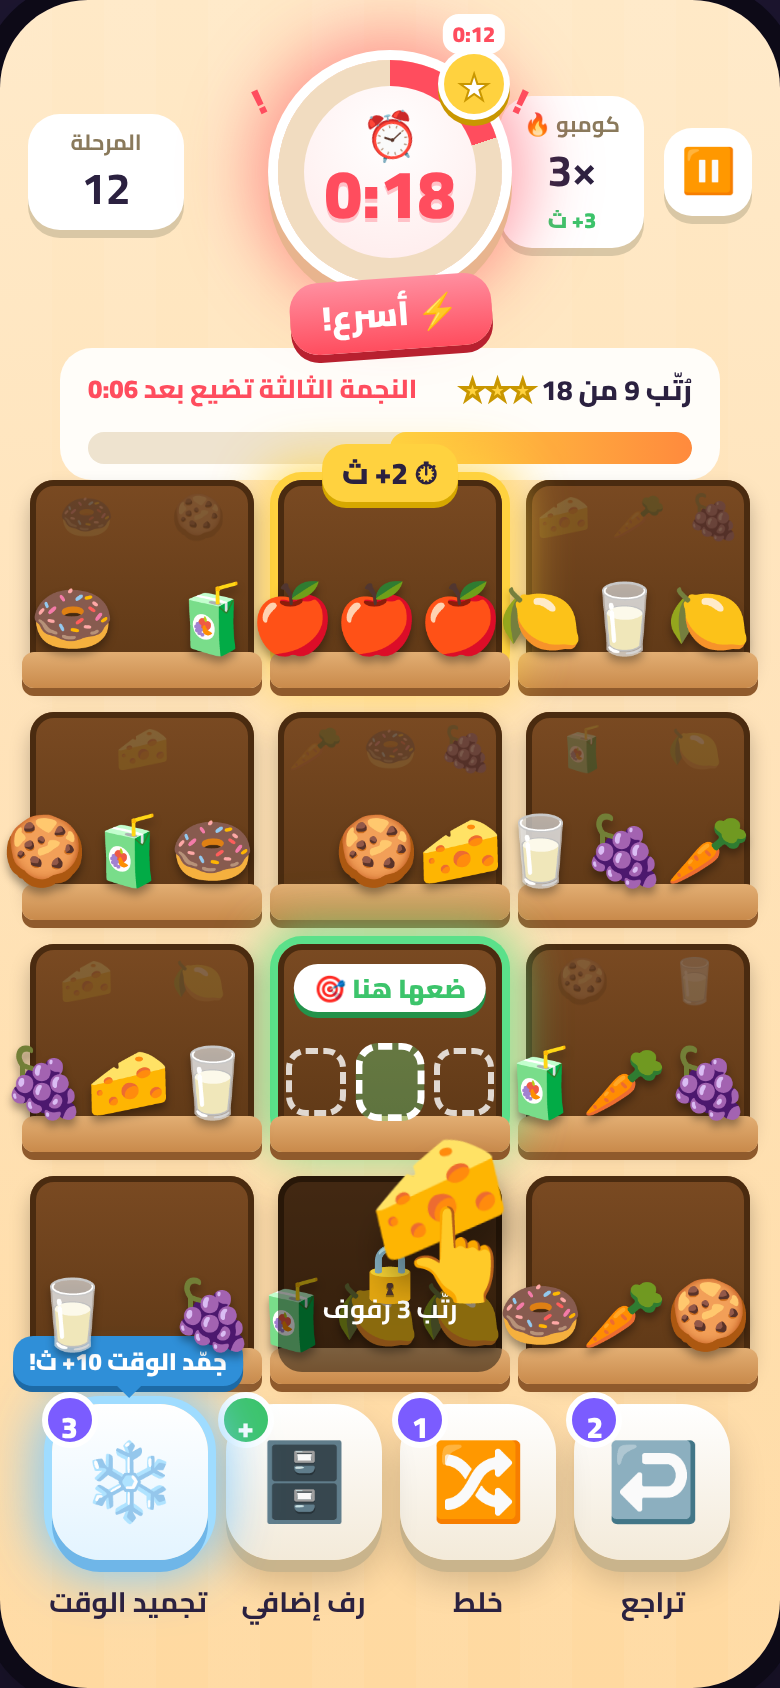
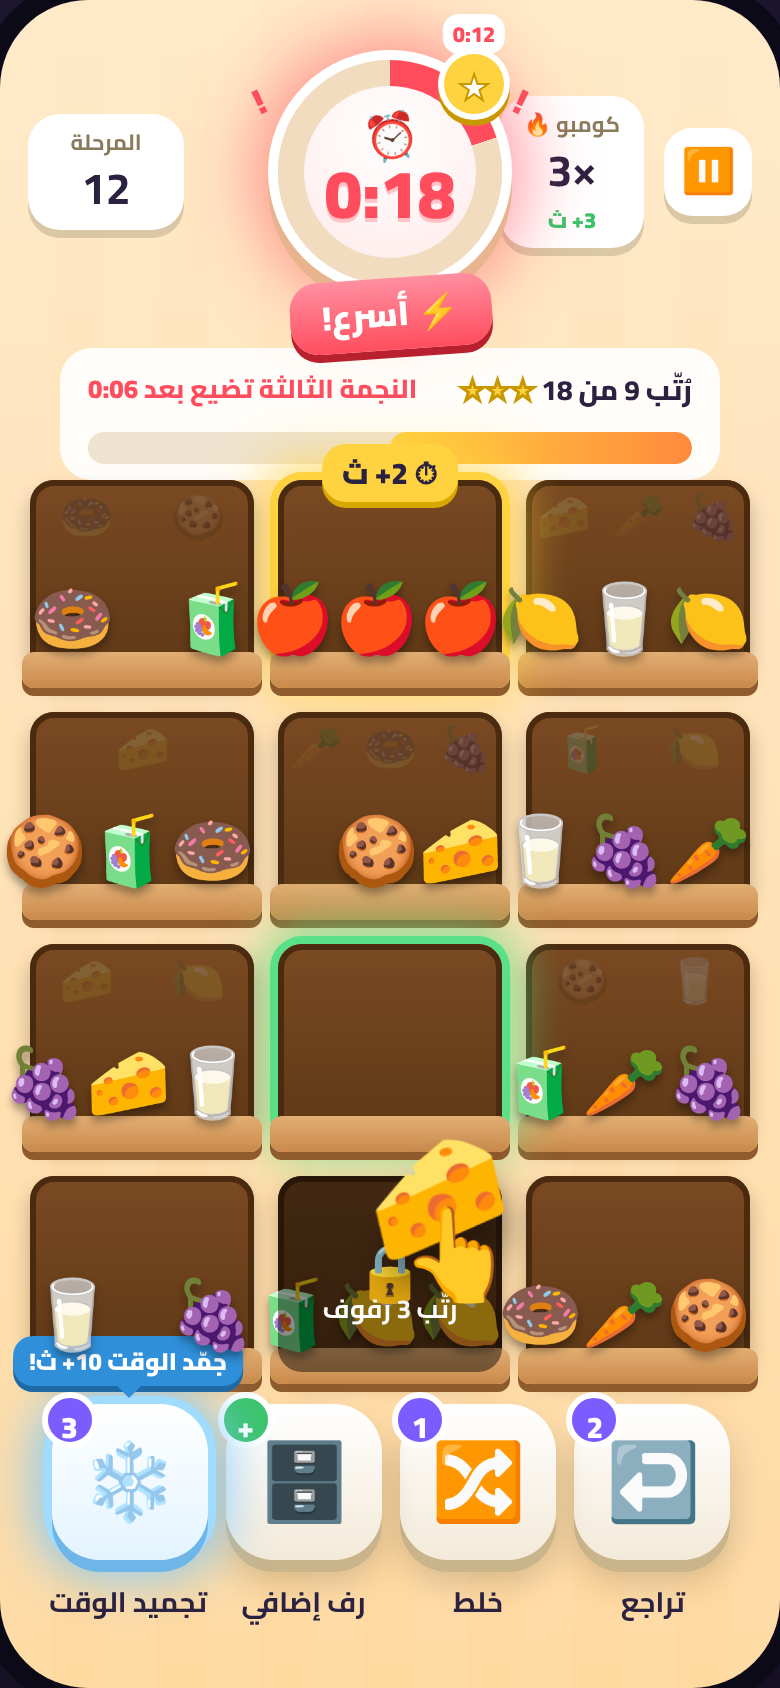
Mockups: remove drop label and ghost slots from target shelf
Claude-Session: https://claude.ai/code/session_0198GSpUHpAsMi38EfXjb44N

Changed region(s): [[0.3692, 0.5545, 0.6154, 0.6777], [0.6154, 0.6161, 0.6462, 0.6777]]

diff --git a/design/mockups/shelf-sort-mockups.html b/design/mockups/shelf-sort-mockups.html
@@ -434,7 +434,7 @@ body { font-family: "Cairo", sans-serif; background: #1d1630; color: var(--ink);
 
     <div class="shelf"><div class="back"><i class="emoji">🥛</i><i class="emoji">🍪</i></div>
       <div class="front"><i class="emoji">🍇</i><i class="emoji">🥕</i><i class="emoji">🧃</i></div></div>
-    <div class="shelf drop"><span class="drop-chip">ضعها هنا 🎯</span><div class="front"><span class="ghost-slot"></span><span class="ghost-slot hl"></span><span class="ghost-slot"></span></div></div>
+    <div class="shelf drop"><div class="front"><span class="slot-empty"></span><span class="slot-empty"></span><span class="slot-empty"></span></div></div>
     <div class="shelf"><div class="back"><i class="emoji">🍋</i><i class="emoji">🧀</i></div>
       <div class="front"><i class="emoji">🥛</i><i class="emoji">🧀</i><i class="emoji">🍇</i></div></div>
 
